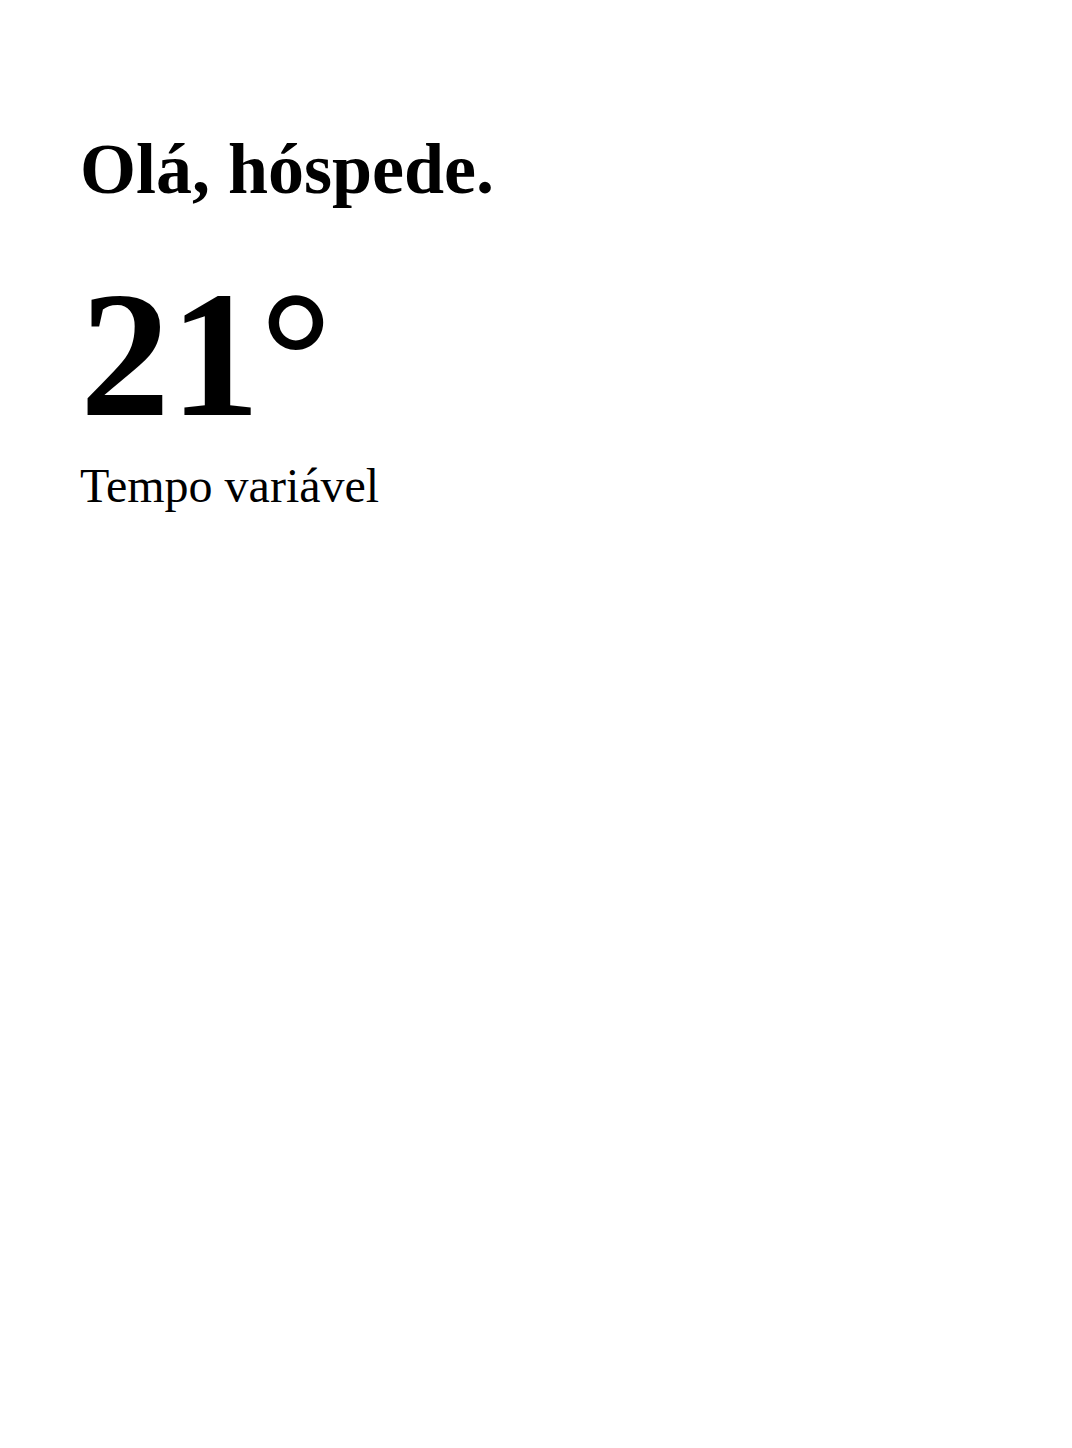
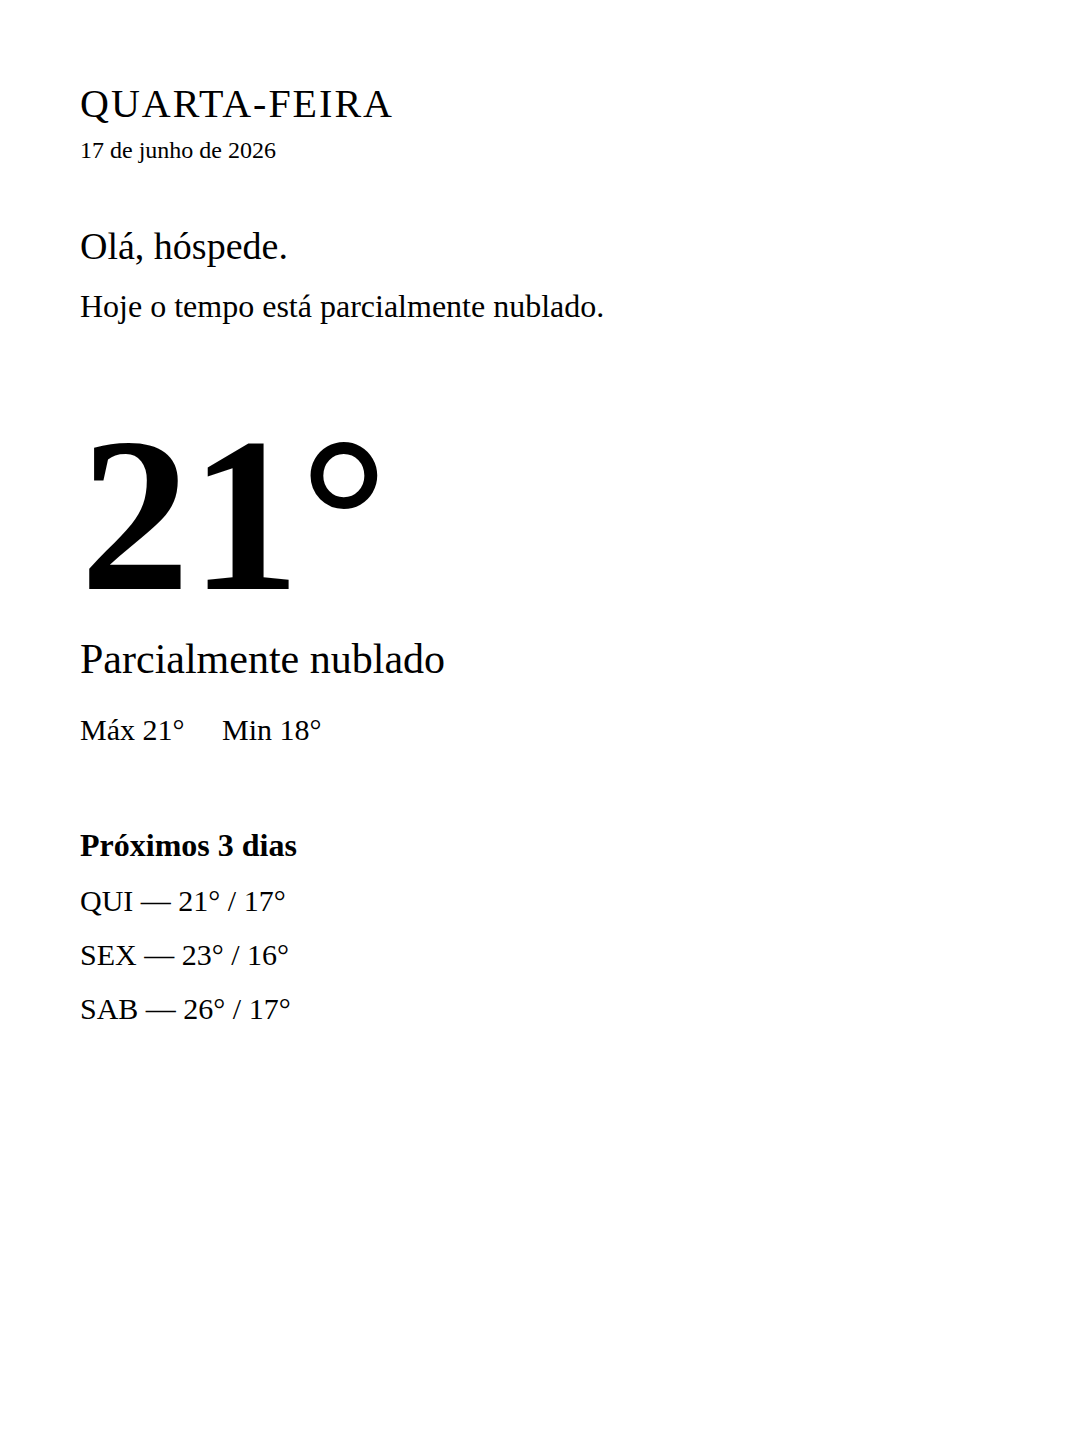
Update concierge

diff --git a/index.html b/index.html
@@ -1,53 +1,62 @@
 <!DOCTYPE html>
 <html lang="pt-BR">
+
 <head>
+
 <meta charset="UTF-8">
 
-<style>
+<link rel="stylesheet" href="styles.css">
 
-body {
-    width: 1072px;
-    height: 1448px;
-
-    margin: 0;
-    padding: 80px;
-
-    box-sizing: border-box;
-
-    background: white;
-    color: black;
-
-    font-family: Georgia, serif;
-}
-
-h1 {
-    font-size: 72px;
-    margin-bottom: 40px;
-}
-
-.temp {
-    font-size: 180px;
-    font-weight: bold;
-}
-
-.condition {
-    font-size: 48px;
-}
-
-</style>
 </head>
 
 <body>
 
-<h1>Olá, hóspede.</h1>
+<div class="header">
+QUARTA-FEIRA
+</div>
 
-<div class="temp">
+<div class="date">
+17 de junho de 2026
+</div>
+
+<div class="greeting">
+Olá, hóspede.
+</div>
+
+<div class="message">
+Hoje o tempo está parcialmente nublado.
+</div>
+
+<div class="temperature">
 21°
 </div>
 
 <div class="condition">
-Tempo variável
+Parcialmente nublado
 </div>
+
+<div class="minmax">
+Máx 21° &nbsp;&nbsp;&nbsp;
+Min 18°
+</div>
+
+<div class="forecast-title">
+Próximos 3 dias
+</div>
+
+
+            <div class="forecast-row">
+                QUI — 21° / 17°
+            </div>
+        
+            <div class="forecast-row">
+                SEX — 23° / 16°
+            </div>
+        
+            <div class="forecast-row">
+                SAB — 26° / 17°
+            </div>
+        
 
 </body>
 
